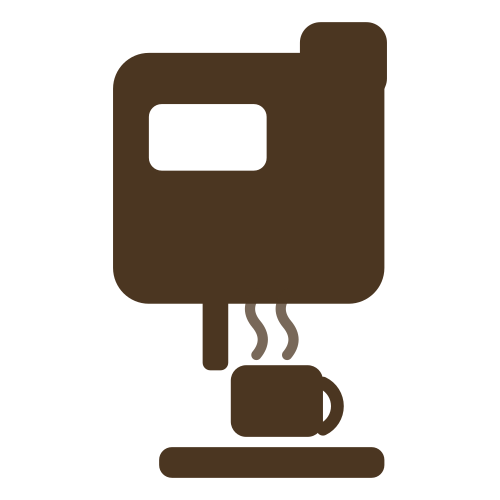
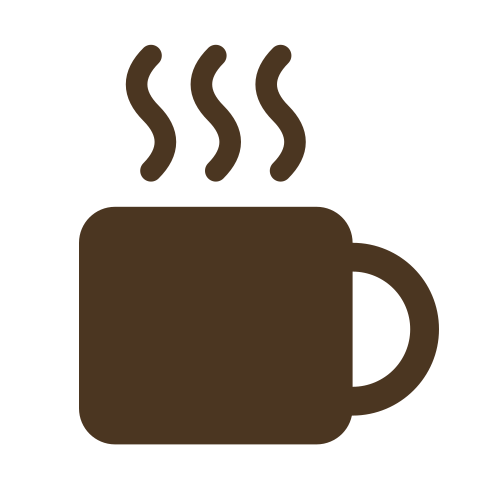
Simplify driver images to the cup glyph, user found the machine illustration unrecognisable
Replaced the hand-drawn bean-to-cup machine silhouette with the same
cup+steam glyph used for the app icon and banner, on the required
white background. Trades off against Homey's "don't reuse your app
icon for drivers" guideline, but the from-scratch illustration read as
an unrecognisable shape at small sizes and the user didn't like it.

diff --git a/README.md b/README.md
@@ -168,15 +168,21 @@ Also, not bugs but network reality:
 - **Live-verify more of the 72 bundled profiles** as that hardware
   becomes available.
 - **Homey App Store publishing** is a separate track: Athom's own
-  review, and an `author.email` in `app.json` (currently just a name).
-  Icons/images were redone against Athom's actual published guidelines
+  review. `author.email`, `support`/`bugs`/`source` links and a
+  plain-text `README.txt`/`README.nl.txt` (required for the store
+  listing, separate from this file) are already in place.
+  Icons/images were redone against Athom's published guidelines
   (transparent app icon rendered as a mask, white-background driver
-  image with a picture of the device, a simple flat-color app banner —
-  see `assets/*.svg` and `drivers/jura-machine/assets/machine.svg`).
-  Athom's guidelines actually recommend "lifestyle photography" for
-  app-store banners, which is beyond what a hand-drawn vector
-  illustration can deliver — worth a real design pass before
-  submitting.
+  image, a simple flat-color app banner — see `assets/*.svg` and
+  `drivers/jura-machine/assets/machine.svg`). The driver image
+  deliberately reuses the app's cup glyph rather than a from-scratch
+  machine illustration (an earlier attempt read as an unrecognisable
+  blob at small sizes) — this technically goes against Athom's "don't
+  reuse your app icon for drivers" guideline, a conscious trade-off for
+  a case where the alternative looked worse. Athom's guidelines also
+  recommend "lifestyle photography" for app-store banners, which is
+  beyond what a hand-drawn vector illustration can deliver — worth a
+  real design pass before submitting.
 - Raw maintenance counters (`@TG:43`) and per-product brew counters
   (`@TR:32`) exist in the protocol (see `jura_connect`'s
   `read_maintenance_counter`/`read_product_counters`) but aren't
@@ -199,7 +205,7 @@ drivers/jura-machine/driver.js       — custom pair flow (discovery + model det
 drivers/jura-machine/device.js       — polling, capabilities, brew method
 drivers/jura-machine/pair/*.html     — pair UI
 drivers/jura-machine/assets/alarm_generic.svg — custom icon for the alarm_generic capability, replacing Homey's default bell
-drivers/jura-machine/assets/machine.svg — source SVG for the driver's small/large.png (white bg + device picture, per Homey's driver-image guideline)
+drivers/jura-machine/assets/machine.svg — source SVG for the driver's small/large.png (white bg + the app's cup glyph)
 assets/icon.svg                      — source SVG for the app icon (transparent, no gradient/background — Homey renders it as a mask)
 assets/banner.svg                    — source SVG for the app's small/large.png store banner images
 ```
